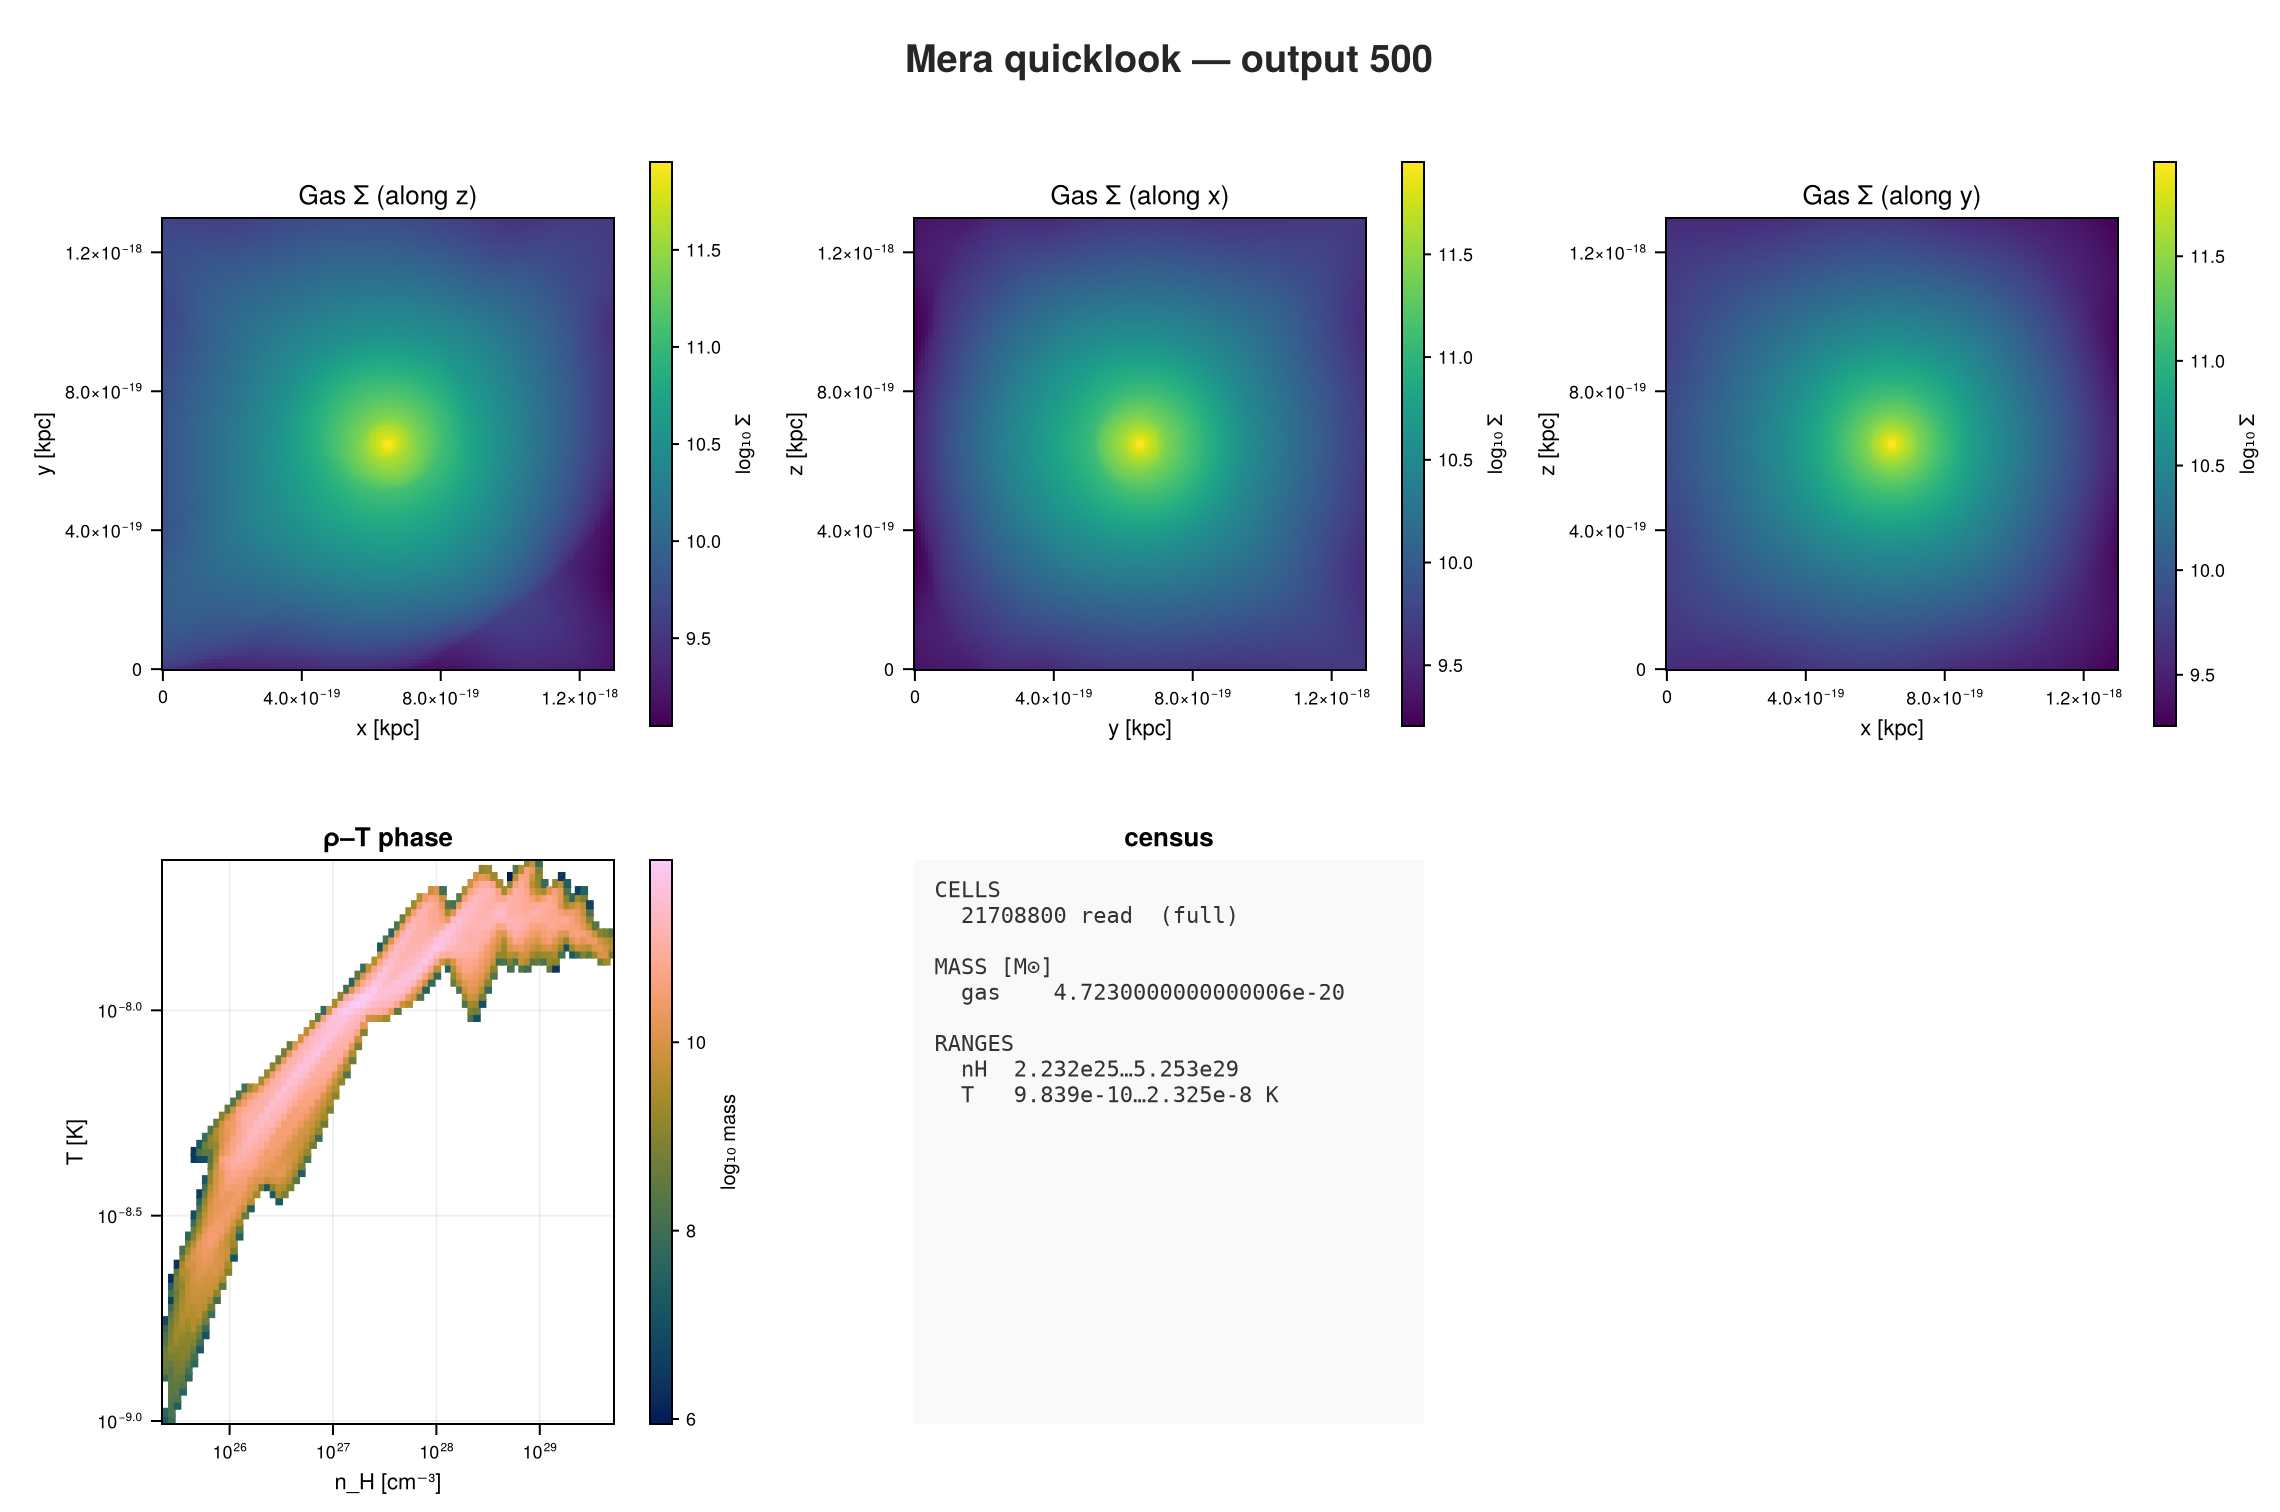
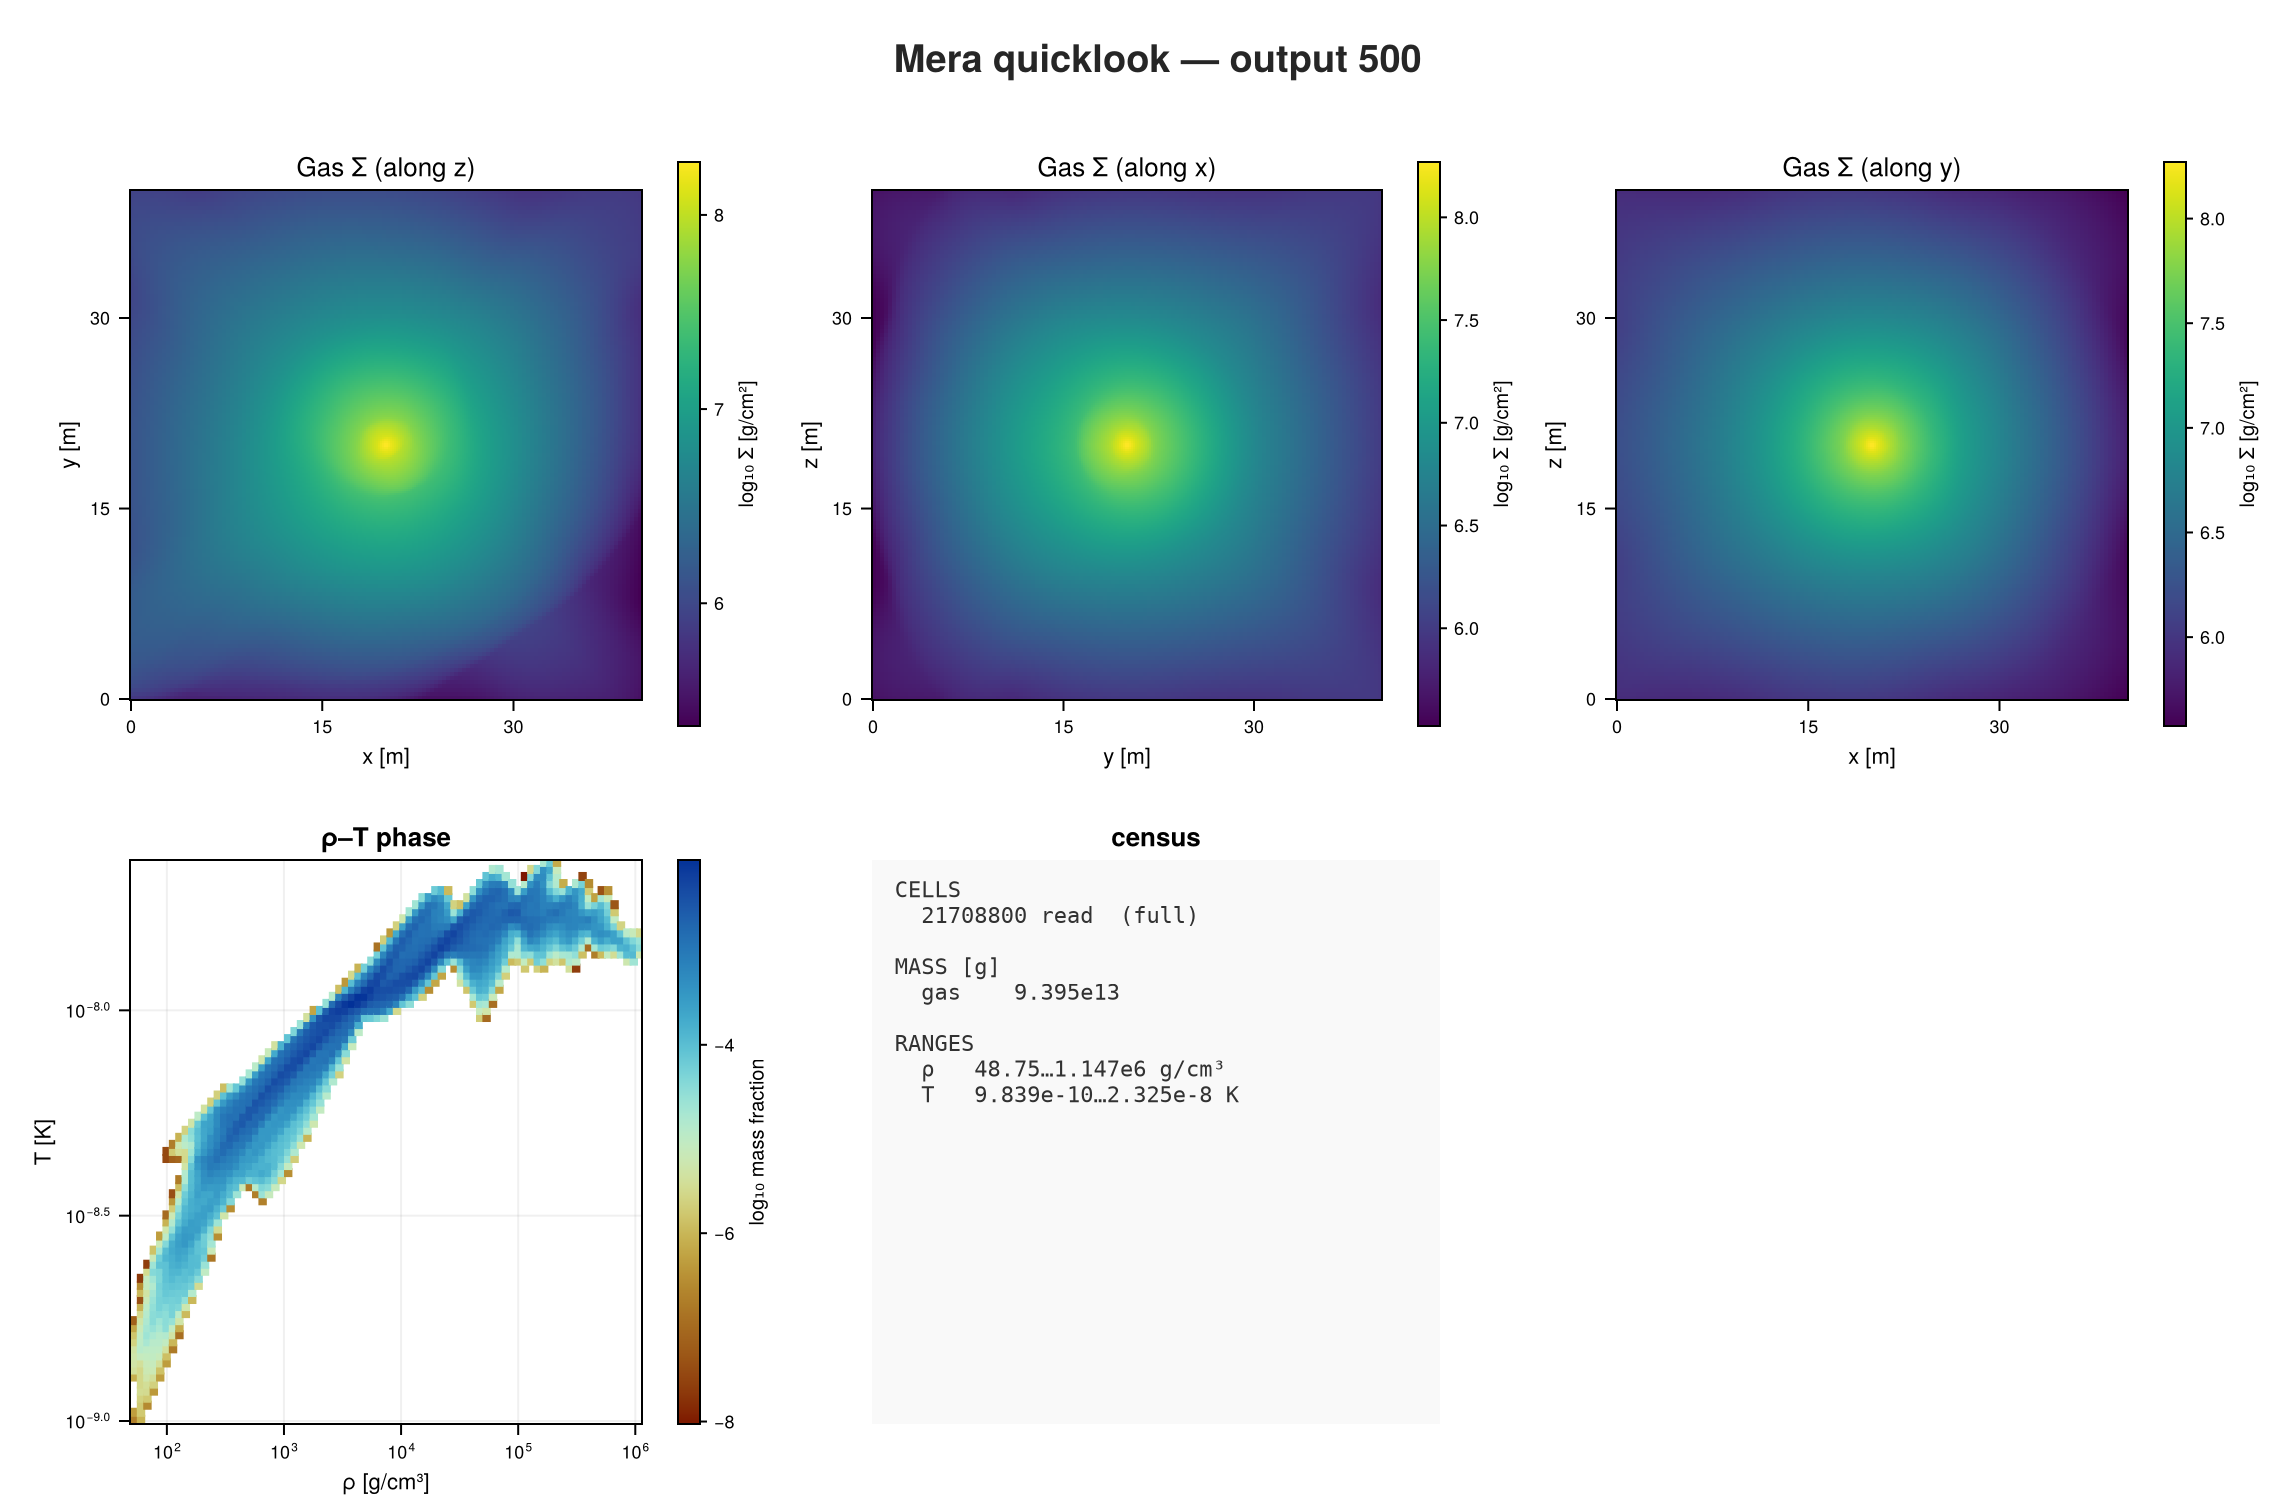
docs: Athena++ first inspection with the units now shown
- the run has no unit record, so one code unit reads as one cgs unit: lengths, masses and densities show in cm, g and g/cm³

diff --git a/docs/src/42_athena_First_Inspection.md b/docs/src/42_athena_First_Inspection.md
@@ -43,19 +43,19 @@ ql = quicklook(500; path=path);
 | ||_|| |   |___|   |  | |   _   |
 |_|   |_|_______|___|  |_|__| |__|
 Mera v2.0.0-DEV | Julia 1.12.7 | 8 threads
-[Mera]: quicklook output 500, reading gas: 2026-09-15T19:35:26.704
+[Mera]: quicklook output 500, reading gas: 2026-10-27T16:08:06.270
    5300 CPU file(s), levels 7-11 of 11  (full resolution)
    projecting 3 gas map(s) [z, x, y] and the phase diagram from 21708800 cells
 ┌─ Mera quicklook ── output 500 (Athena++) ───────────────
-│ box        : 1.296e-18 kpc      levels 7–11  (finest 6.33e-19 pc)
+│ box        : 40 m      levels 7–11  (finest 1.953 cm)
 │ grid       : ndim 3 · ncpu 5300 · nvarh 8
-│ time       : 1.584e-10 Myr  (non-cosmological)
+│ time       : 5000 s
 │ read       : 21708800 cells  (full resolution)
-│ gas mass   : 4.7230000000000006e-20 M⊙
-│ nH range   : 2.232e25 … 5.253e29 cm⁻³
-│ T  range   : 9.839e-10 … 2.325e-8 K
-└─ 54.86 s ──────────────────────────────────
-[Mera]: quicklook output 500 finished: 2026-09-15T19:36:20.552
+│ gas mass   : 9.395e13 g
+│ ρ range    : 48.75 … 1.147e6 g/cm³
+│ T range    : 9.839e-10 … 2.325e-8 K
+└─ 49.6 s ──────────────────────────────────
+[Mera]: quicklook output 500 finished: 2026-10-27T16:08:54.827
 ```
 
 ```julia
@@ -69,8 +69,8 @@ has a genuine spread of temperatures, so the plane fills instead of collapsing t
 
 !!! warning "This run is in code units"
     Athena++ keeps its unit constants in the problem setup, not in the output, so Mera cannot
-    read them and treats one code unit as one CGS unit. Anything printed in kpc or solar masses
-    above is therefore arithmetic rather than physics. Pass `unit_length=`, `unit_density=` and
+    read them and treats one code unit as one CGS unit. The lengths, masses and densities printed
+    above (in cm, g and g/cm³) are therefore arithmetic rather than physics. Pass `unit_length=`, `unit_density=` and
     `unit_velocity=` if you know them; everything below stays in code units, which is honest for
     a turbulence box.
 
@@ -81,7 +81,7 @@ info = getinfo(500, path);
 ```
 
 ```
-[Mera]: 2026-09-15T19:36:37.161
+[Mera]: 2026-10-27T16:09:10.357
 Code: Athena++
 output: 500  time: 5000.0 [code units]
 root grid: 128³ (level 7), MaxLevel 4 ⇒ levels 7:11, boxlen = 4000.0
@@ -208,7 +208,7 @@ size(proj.maps[:sd])
 ```
 
 ```
-[Mera]: 2026-09-15T19:37:22.269
+[Mera]: 2026-10-27T16:09:49.033
 domain:
 xmin::xmax: 0.0 :: 1.0  	==> 0.0 [cm] :: 4000.0 [cm]
 ymin::ymax: 0.0 :: 1.0  	==> 0.0 [cm] :: 4000.0 [cm]
